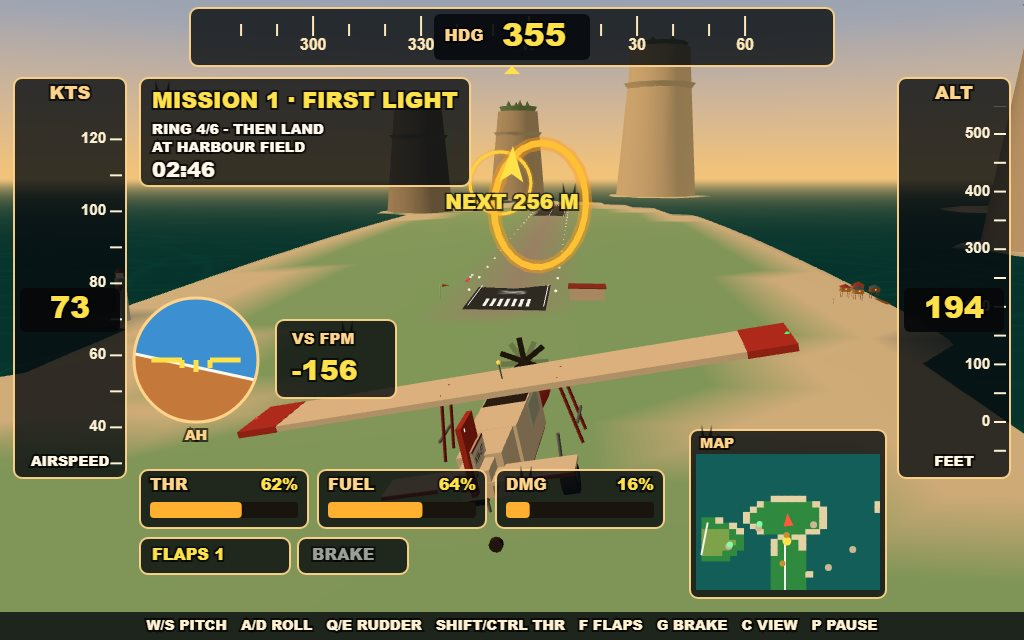
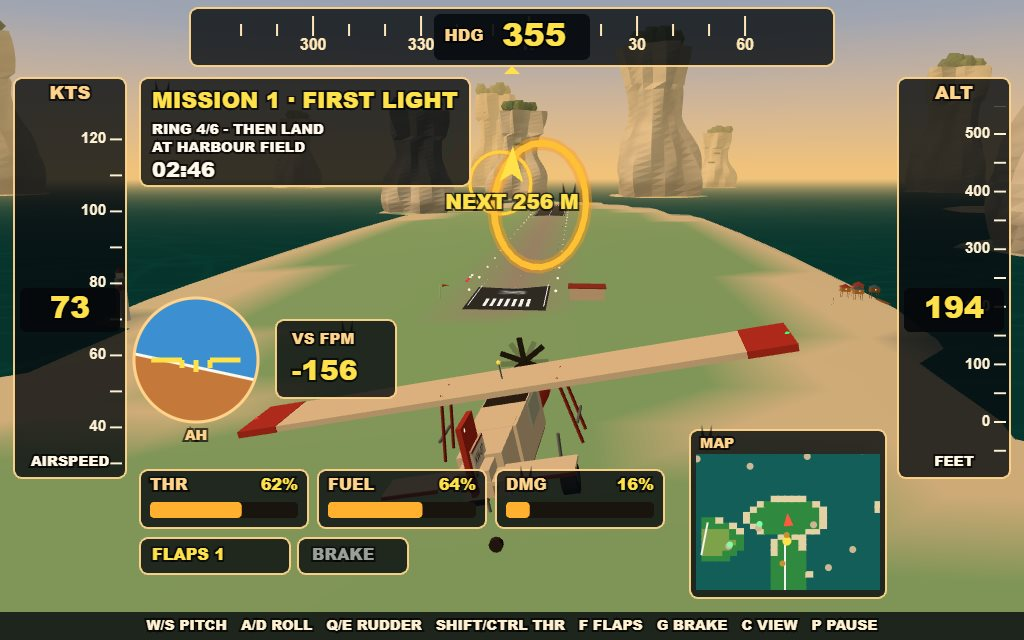
V2: karst towers

diff --git a/game/src/karst-towers.js b/game/src/karst-towers.js
@@ -1,0 +1,102 @@
+// Sculpted limestone columns and their jungle crowns.
+
+import * as THREE from '../vendor/three.module.min.js';
+import { TOWERS, towerRadiusAt } from './config.js';
+
+function hash(a, b, seed) {
+  const n = Math.sin(a * 127.1 + b * 311.7 + seed * 74.7) * 43758.5453;
+  return n - Math.floor(n);
+}
+
+function towerGeometry(tower, index) {
+  const radial = 18;
+  const rows = 24;
+  const positions = [];
+  const colors = [];
+  const indices = [];
+  for (let row = 0; row <= rows; row += 1) {
+    const u = row / rows;
+    const y = u * tower.h;
+    for (let side = 0; side < radial; side += 1) {
+      const angle = side / radial * Math.PI * 2;
+      const radius = towerRadiusAt(tower, y, angle);
+      const x = Math.cos(angle) * radius + tower.leanX * u;
+      const z = Math.sin(angle) * radius + tower.leanZ * u;
+      positions.push(x, y, z);
+      const streak = Math.sin(angle * 4 + index * 2.7 + hash(side, row, index) * 1.4);
+      const wet = u < 0.12 ? 0.58 : 1;
+      const shade = Math.max(0.55, Math.min(1.05, 0.82 + streak * 0.13 + (hash(side, row, index + 9) - 0.5) * 0.16)) * wet;
+      colors.push(0.83 * shade, 0.79 * shade, 0.68 * shade);
+    }
+  }
+  for (let row = 0; row < rows; row += 1) {
+    for (let side = 0; side < radial; side += 1) {
+      const a = row * radial + side;
+      const b = row * radial + (side + 1) % radial;
+      const c = (row + 1) * radial + side;
+      const d = (row + 1) * radial + (side + 1) % radial;
+      indices.push(a, c, b, b, c, d);
+    }
+  }
+  const top = positions.length / 3;
+  positions.push(tower.leanX, tower.h, tower.leanZ);
+  colors.push(0.62, 0.59, 0.49);
+  const firstTop = rows * radial;
+  for (let side = 0; side < radial; side += 1) {
+    indices.push(firstTop + side, top, firstTop + (side + 1) % radial);
+  }
+  const geometry = new THREE.BufferGeometry();
+  geometry.setAttribute('position', new THREE.Float32BufferAttribute(positions, 3));
+  geometry.setAttribute('color', new THREE.Float32BufferAttribute(colors, 3));
+  geometry.setIndex(indices);
+  geometry.computeVertexNormals();
+  return geometry;
+}
+
+function addCrown(group, tower, index, foliage, ledge) {
+  const count = 9 + index % 5;
+  for (let tree = 0; tree < count; tree += 1) {
+    const angle = tree / count * Math.PI * 2 + index;
+    const radius = tower.r * (0.18 + hash(tree, 2, index) * 0.42);
+    const size = tower.r * (0.16 + hash(tree, 4, index) * 0.12);
+    const crown = new THREE.Mesh(new THREE.IcosahedronGeometry(size, 0), tree % 3 ? foliage : ledge);
+    crown.position.set(
+      tower.x + tower.leanX + Math.cos(angle) * radius,
+      tower.h + size * (0.45 + hash(tree, 8, index) * 0.35),
+      tower.z + tower.leanZ + Math.sin(angle) * radius,
+    );
+    crown.scale.y = 0.72 + hash(tree, 6, index) * 0.45;
+    group.add(crown);
+  }
+  if (index % 2 === 0) {
+    for (let ledgeIndex = 0; ledgeIndex < 2; ledgeIndex += 1) {
+      const u = 0.38 + ledgeIndex * 0.21 + hash(index, ledgeIndex, 12) * 0.08;
+      const angle = hash(index, ledgeIndex, 24) * Math.PI * 2;
+      const y = tower.h * u;
+      const radius = towerRadiusAt(tower, y, angle);
+      const patch = new THREE.Mesh(new THREE.IcosahedronGeometry(tower.r * 0.18, 0), ledge);
+      patch.position.set(
+        tower.x + tower.leanX * u + Math.cos(angle) * radius,
+        y + 1,
+        tower.z + tower.leanZ * u + Math.sin(angle) * radius,
+      );
+      patch.scale.set(1.35, 0.35, 1.1);
+      group.add(patch);
+    }
+  }
+}
+
+export function createKarstTowers() {
+  const group = new THREE.Group();
+  const limestone = new THREE.MeshStandardMaterial({ vertexColors: true, flatShading: true, roughness: 0.96 });
+  const foliage = new THREE.MeshStandardMaterial({ color: 0x28583a, flatShading: true, roughness: 0.92 });
+  const ledge = new THREE.MeshStandardMaterial({ color: 0x49713d, flatShading: true, roughness: 0.9 });
+  for (let i = 0; i < TOWERS.length; i += 1) {
+    const tower = TOWERS[i];
+    const cliff = new THREE.Mesh(towerGeometry(tower, i), limestone);
+    cliff.position.set(tower.x, 0, tower.z);
+    group.add(cliff);
+    addCrown(group, tower, i, foliage, ledge);
+  }
+  return group;
+}

diff --git a/game/src/config.js b/game/src/config.js
@@ -97,16 +97,36 @@ export const FIRST_LIGHT_RINGS = [
 ];
 
 export const TOWERS = [
-  { x: -250, z: 170, r: 48, h: 155 },
-  { x: -530, z: -50, r: 60, h: 215 },
-  { x: -170, z: -690, r: 42, h: 128 },
-  { x: 410, z: -310, r: 64, h: 236 },
-  { x: 270, z: 210, r: 38, h: 102 },
-  { x: 640, z: -90, r: 52, h: 176 },
-  { x: -70, z: -1040, r: 46, h: 148 },
-  { x: 180, z: -1180, r: 72, h: 268 },
-  { x: 920, z: 390, r: 50, h: 136 },
-  { x: -980, z: 380, r: 58, h: 188 },
+  { x: -250, z: 170, r: 48, h: 155, leanX: -8, leanZ: 5, seed: 1 },
+  { x: -530, z: -50, r: 60, h: 215, leanX: 9, leanZ: -5, seed: 2 },
+  { x: -170, z: -690, r: 42, h: 128, leanX: -4, leanZ: -6, seed: 3 },
+  { x: 410, z: -310, r: 64, h: 236, leanX: 7, leanZ: 8, seed: 4 },
+  { x: 270, z: 210, r: 38, h: 102, leanX: 4, leanZ: -3, seed: 5 },
+  { x: 640, z: -90, r: 52, h: 176, leanX: -8, leanZ: 6, seed: 6 },
+  { x: -70, z: -1040, r: 46, h: 148, leanX: 3, leanZ: -8, seed: 7 },
+  { x: 180, z: -1180, r: 72, h: 268, leanX: -11, leanZ: 8, seed: 8 },
+  { x: 920, z: 390, r: 50, h: 136, leanX: 5, leanZ: 4, seed: 9 },
+  { x: -980, z: 380, r: 58, h: 188, leanX: -6, leanZ: 9, seed: 10 },
+  { x: -1460, z: -250, r: 58, h: 205, leanX: 9, leanZ: -4, seed: 11 },
+  { x: -1270, z: 180, r: 41, h: 112, leanX: -3, leanZ: 7, seed: 12 },
+  { x: -1810, z: 240, r: 74, h: 278, leanX: 12, leanZ: -8, seed: 13 },
+  { x: -2080, z: -430, r: 46, h: 146, leanX: -5, leanZ: 5, seed: 14 },
+  { x: -1590, z: -820, r: 52, h: 169, leanX: 7, leanZ: 2, seed: 15 },
+  { x: -1120, z: -1130, r: 78, h: 310, leanX: -9, leanZ: -12, seed: 16 },
+  { x: -650, z: -1550, r: 50, h: 162, leanX: 6, leanZ: 7, seed: 17 },
+  { x: -170, z: -1680, r: 62, h: 226, leanX: -8, leanZ: 10, seed: 18 },
+  { x: 370, z: -1640, r: 43, h: 131, leanX: 5, leanZ: -6, seed: 19 },
+  { x: 830, z: -1430, r: 68, h: 252, leanX: -12, leanZ: 5, seed: 20 },
+  { x: 1230, z: -1100, r: 48, h: 153, leanX: 4, leanZ: 8, seed: 21 },
+  { x: 1540, z: -640, r: 76, h: 298, leanX: -10, leanZ: -9, seed: 22 },
+  { x: 1790, z: -160, r: 44, h: 137, leanX: 8, leanZ: 4, seed: 23 },
+  { x: 1470, z: 330, r: 58, h: 184, leanX: -7, leanZ: 6, seed: 24 },
+  { x: 1240, z: 830, r: 70, h: 264, leanX: 10, leanZ: -8, seed: 25 },
+  { x: 730, z: 1110, r: 46, h: 144, leanX: -5, leanZ: -3, seed: 26 },
+  { x: 210, z: 1040, r: 60, h: 198, leanX: 9, leanZ: 7, seed: 27 },
+  { x: -330, z: 920, r: 48, h: 158, leanX: -6, leanZ: 5, seed: 28 },
+  { x: -830, z: 1010, r: 72, h: 286, leanX: 11, leanZ: -5, seed: 29 },
+  { x: -1280, z: 790, r: 44, h: 139, leanX: -4, leanZ: -7, seed: 30 },
 ];
 
 export const VILLAGE = { x: 168, z: -90 };
@@ -172,14 +192,27 @@ export function islandHeight(x, z) {
   return h;
 }
 
+export function towerRadiusAt(tower, y, angle) {
+  const u = Math.max(0, Math.min(1, y / tower.h));
+  const seed = tower.seed ?? 1;
+  const taper = 0.96 - 0.26 * u + 0.12 * Math.sin((u * 2.3 + 0.08) * Math.PI);
+  const waist = 1 - 0.13 * Math.exp(-((u - 0.52) ** 2) / 0.018);
+  const irregular = 1 + 0.17 * Math.sin(angle * 3 + seed * 1.7 + u * 3) + 0.09 * Math.sin(angle * 7 - seed + u * 9);
+  const topRag = u > 0.72 ? 1 + 0.19 * Math.sin(angle * 5 + seed) + 0.09 * Math.sin(angle * 9 - seed * 2) : 1;
+  return Math.max(tower.r * 0.38, tower.r * taper * waist * irregular * topRag);
+}
+
 function towerColumn(x, z, tower) {
-  const d = Math.hypot(x - tower.x, z - tower.z);
-  const foot = tower.r * 1.28;
-  if (d >= foot) return 0;
-  const crown = tower.r * 0.78;
-  if (d <= crown) return tower.h;
-  const u = (foot - d) / (foot - crown);
-  return tower.h * u * u;
+  const leanX = tower.leanX ?? 0;
+  const leanZ = tower.leanZ ?? 0;
+  for (let band = 48; band >= 0; band -= 1) {
+    const y = tower.h * band / 48;
+    const dx = x - tower.x - leanX * (y / tower.h);
+    const dz = z - tower.z - leanZ * (y / tower.h);
+    const angle = Math.atan2(dz, dx);
+    if (Math.hypot(dx, dz) <= towerRadiusAt(tower, y, angle)) return y;
+  }
+  return 0;
 }
 
 function insideField(x, z, field, pad) {

diff --git a/game/src/terrain.js b/game/src/terrain.js
@@ -2,6 +2,7 @@
 
 import * as THREE from '../vendor/three.module.min.js';
 import { FIELDS, TOWERS, WORLD, fieldAt, islandHeight } from './config.js';
+import { createKarstTowers } from './karst-towers.js';
 
 function visualHeight(x, z) {
   let h = islandHeight(x, z);
@@ -75,49 +76,9 @@ function buildLand() {
   return mesh;
 }
 
-function buildTowers() {
-  const group = new THREE.Group();
-  const rock = new THREE.MeshStandardMaterial({ color: 0xc6b59a, roughness: 0.94 });
-  const rockDark = new THREE.MeshStandardMaterial({ color: 0x9a8b74, roughness: 0.95 });
-  const jungle = new THREE.MeshStandardMaterial({ color: 0x1c6a34, roughness: 0.88 });
-  const canopy = new THREE.MeshStandardMaterial({ color: 0x145028, roughness: 0.9 });
-  for (let i = 0; i < TOWERS.length; i += 1) {
-    const tower = TOWERS[i];
-    const trunk = new THREE.Mesh(
-      new THREE.CylinderGeometry(tower.r * 0.74, tower.r * 1.04, tower.h, 9),
-      i % 2 ? rock : rockDark,
-    );
-    trunk.position.set(tower.x, tower.h * 0.5 - 1, tower.z);
-    group.add(trunk);
-    const lip = new THREE.Mesh(
-      new THREE.CylinderGeometry(tower.r * 0.92, tower.r * 0.7, tower.h * 0.08, 9),
-      rock,
-    );
-    lip.position.set(tower.x, tower.h * 0.72, tower.z);
-    group.add(lip);
-    const cap = new THREE.Mesh(
-      new THREE.CylinderGeometry(tower.r * 0.7, tower.r * 0.62, 9, 8),
-      jungle,
-    );
-    cap.position.set(tower.x, tower.h + 2.5, tower.z);
-    group.add(cap);
-    for (let tree = 0; tree < 4; tree += 1) {
-      const angle = (tree / 4) * Math.PI * 2 + i;
-      const cone = new THREE.Mesh(new THREE.ConeGeometry(tower.r * 0.16, 14, 6), canopy);
-      cone.position.set(
-        tower.x + Math.cos(angle) * tower.r * 0.35,
-        tower.h + 10,
-        tower.z + Math.sin(angle) * tower.r * 0.35,
-      );
-      group.add(cone);
-    }
-  }
-  return group;
-}
-
 export function createTerrain() {
   const group = new THREE.Group();
   group.add(buildLand());
-  group.add(buildTowers());
+  group.add(createKarstTowers());
   return group;
 }

diff --git a/game/src/flight-model.js b/game/src/flight-model.js
@@ -4,7 +4,6 @@
 import {
   AERO,
   SPAWN,
-  TOWERS,
   WORLD,
   UNITS,
   clamp,
@@ -12,6 +11,7 @@ import {
   formatHdg,
   headingDeg,
   heightAt,
+  islandHeight,
   wrapPi,
 } from './config.js';
 import { availablePower, burnFuel, recordDamage } from './fuel-and-damage.js';
@@ -184,7 +184,7 @@ export function stepFlight(plane, controls, dt) {
     plane.crashed = true;
     plane.onGround = true;
     recordDamage(plane, 1);
-    const tower = TOWERS.some((item) => Math.hypot(plane.x - item.x, plane.z - item.z) < item.r * 1.28);
+    const tower = heightAt(plane.x, plane.z) > islandHeight(plane.x, plane.z);
     plane.crashReason = wet ? 'WATER DITCH'
       : tower ? 'WING STRUCK TOWER'
         : bank > AERO.crashBank ? 'WING STRIKE' : 'HARD LANDING';
